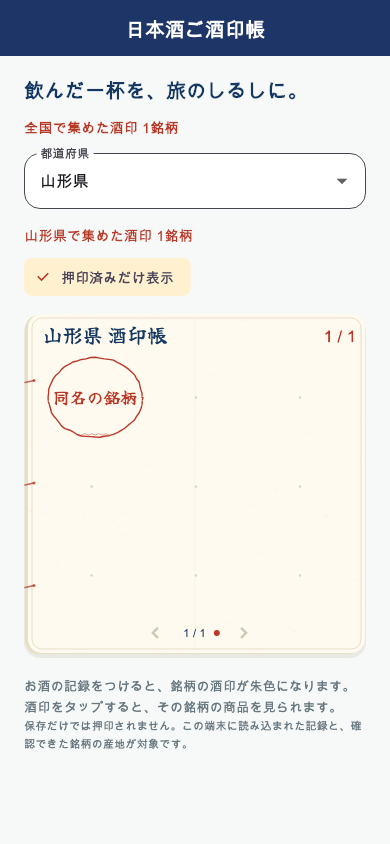
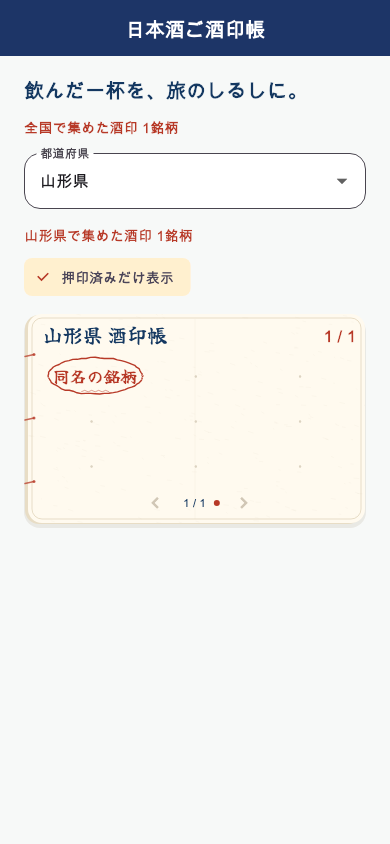
Unify stamp book size and remove verbose footer

diff --git a/lib/presentation/new_home/sake_stamp_book_page.dart b/lib/presentation/new_home/sake_stamp_book_page.dart
@@ -188,6 +188,7 @@ class _SakeStampBookPageState extends State<SakeStampBookPage> {
 
   @override
   Widget build(BuildContext context) => SakeJourneyProgressBuilder(
+    compactStatus: true,
     builder: (context, progress, legend, ready) => Scaffold(
       backgroundColor: const Color(0xFFF7F9F8),
       appBar: PrimaryAppBar(
@@ -287,31 +288,7 @@ class _SakeStampBookPageState extends State<SakeStampBookPage> {
                 recordsReady: ready,
                 onBrandTap: (brand) => _openBrand(context, brand),
               ),
-              const SizedBox(height: 8),
-              Text(
-                _english(context)
-                    ? 'Record a sake to earn its brand stamp. Tap a stamp to explore that brand’s products.'
-                    : 'お酒の記録をつけると、銘柄の酒印が朱色になります。酒印をタップすると、その銘柄の商品を見られます。',
-                style: const TextStyle(
-                  color: Color(0xFF687880),
-                  fontSize: 13,
-                  height: 1.6,
-                ),
-              ),
-              Text(
-                _english(context)
-                    ? 'Bookmarks alone do not earn stamps. Based on records loaded on this device and verified brewery origins.'
-                    : '保存だけでは押印されません。この端末に読み込まれた記録と、確認できた銘柄の産地が対象です。',
-                style: const TextStyle(
-                  color: Color(0xFF687880),
-                  fontSize: 11,
-                  height: 1.6,
-                ),
-              ),
-              if (!ready || progress.unresolvedRecords > 0) ...[
-                const SizedBox(height: 16),
-                legend,
-              ],
+              if (!ready) legend,
             ],
           );
         },

diff --git a/lib/presentation/new_home/widgets/sake_journey_progress.dart b/lib/presentation/new_home/widgets/sake_journey_progress.dart
@@ -9,7 +9,12 @@ import '../../../domain/repository/place_map_repository.dart';
 import 'japan_sake_map.dart';
 
 class SakeJourneyProgressBuilder extends StatefulWidget {
-  const SakeJourneyProgressBuilder({super.key, required this.builder});
+  const SakeJourneyProgressBuilder({
+    super.key,
+    required this.builder,
+    this.compactStatus = false,
+  });
+  final bool compactStatus;
   final Widget Function(
     BuildContext context,
     SakeJourneyProgress progress,
@@ -146,7 +151,18 @@ class _SakeJourneyProgressBuilderState
       return widget.builder(
         context,
         progress,
-        legend,
+        widget.compactStatus
+            ? (snapshot.hasError
+                  ? Align(
+                      alignment: Alignment.centerLeft,
+                      child: IconButton(
+                        tooltip: english ? 'Retry checking stamps' : '酒印を再確認',
+                        onPressed: () => setState(_reload),
+                        icon: const Icon(Icons.refresh, color: japanMapNavy),
+                      ),
+                    )
+                  : const SizedBox.shrink())
+            : legend,
         !loading && !snapshot.hasError,
       );
     },

diff --git a/test/presentation/new_home/sake_stamp_book_test.dart b/test/presentation/new_home/sake_stamp_book_test.dart
@@ -345,6 +345,9 @@ void main() {
       expect(repo.codes.last, 6);
       expect(repo.codes.toSet().difference({1, 6}), isEmpty);
       expect(find.text('1 / 9'), findsOneWidget);
+      final homeBookSize = tester.getSize(
+        find.byKey(const ValueKey('sake-stamp-book')),
+      );
       await preview(tester, 'home-stamp-book');
       await tester.tap(find.byKey(const ValueKey('sake-stamp-demo-button')));
       await tester.pumpAndSettle();
@@ -360,6 +363,13 @@ void main() {
       expect(find.byType(SakeStampBookPage), findsOneWidget);
       expect(find.text('山形県で集めた酒印 1銘柄'), findsOneWidget);
       expect(find.byType(JapanSakeMap), findsNothing);
+      expect(
+        tester.getSize(find.byKey(const ValueKey('sake-stamp-book'))),
+        homeBookSize,
+      );
+      expect(find.textContaining('お酒の記録をつけると'), findsNothing);
+      expect(find.textContaining('保存だけでは押印'), findsNothing);
+      expect(find.text('記録した商品数'), findsNothing);
       await preview(tester, 'dedicated-stamp-book');
       await tester.tap(find.byKey(const ValueKey('brand-stamp-2')));
       await tester.pumpAndSettle();

diff --git a/lib/presentation/new_home/widgets/prefecture_stamp_catalog.dart b/lib/presentation/new_home/widgets/prefecture_stamp_catalog.dart
@@ -135,9 +135,6 @@ class _PrefectureStampCatalogState extends State<PrefectureStampCatalog> {
             loading: _loading,
             failed: _failed,
             loadMore: _load,
-            height: widget.preview
-                ? 212
-                : (MediaQuery.sizeOf(context).width - 48).clamp(260, 400),
           ),
         ),
       );
